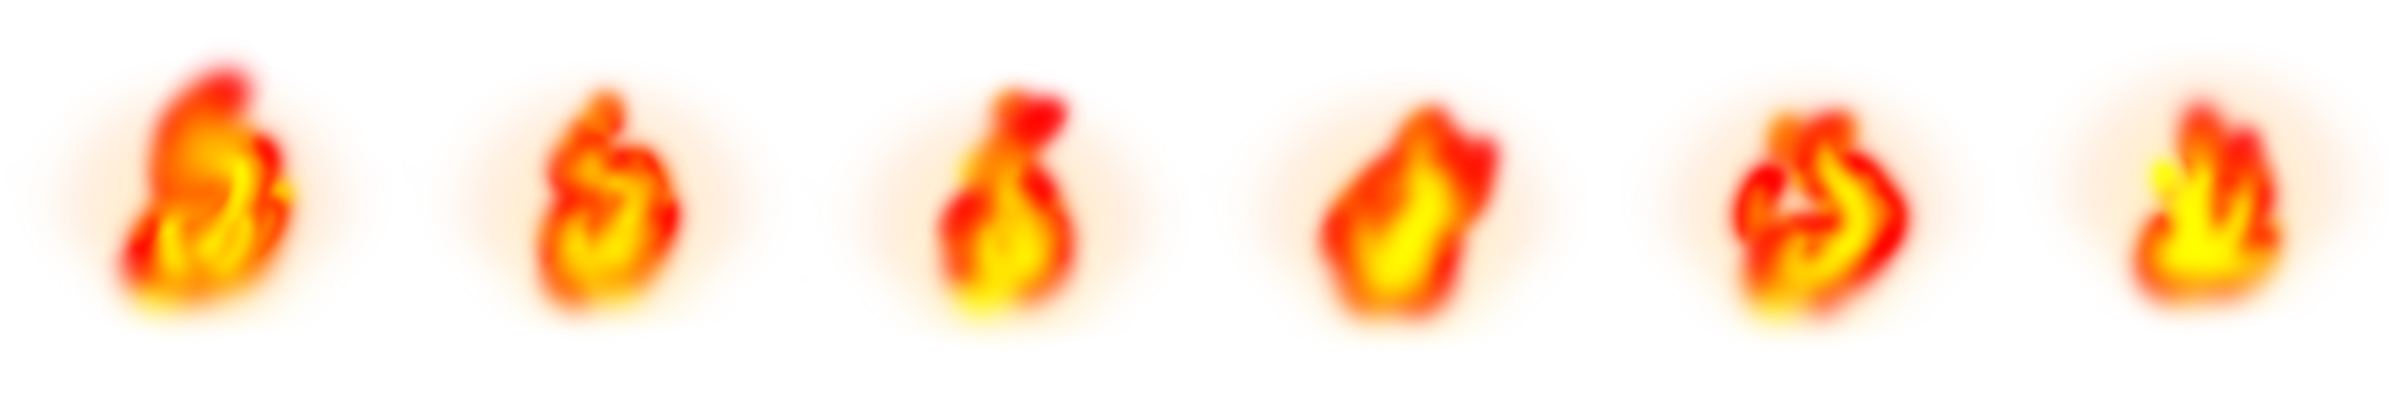
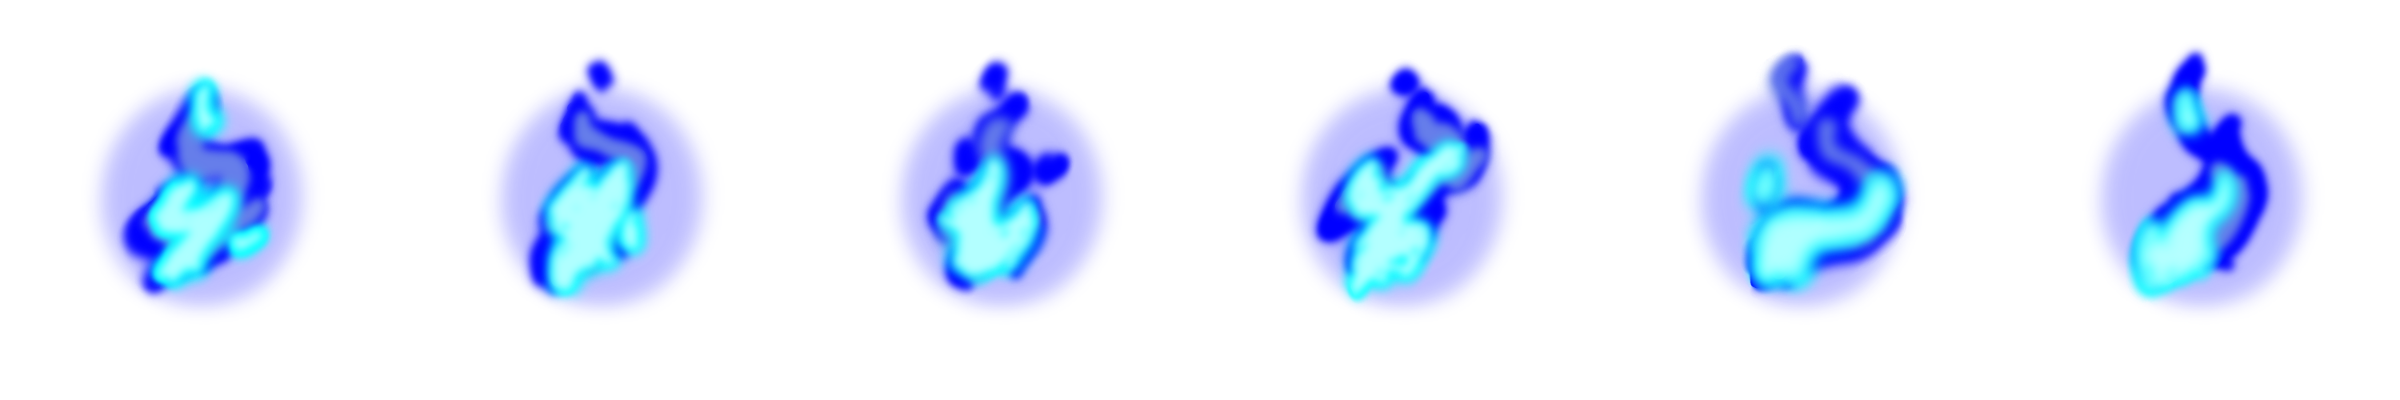
updated art

diff --git a/index.html b/index.html
@@ -387,12 +387,29 @@ const LIGHT_AMBIENT_COLOR = "#170032";
 const LIGHT_GLOW = 0.1;             // how strongly lights tint the scene with their color
 const LIGHT_PLAYER = { radius: 520, color: "#c4b5fd", height: 70 }; // height = px above feet
 const LIGHT_SPELL = { radius: 320, color: "#ff69b4" };
-const LAMP_COLORS = ["#00ffff", "#ff69b4", "#ff6200", "#67FEBD", "#A55AFF"];
-const LAMP_FIRST_X = 350;            // x of the first neon lamp
-const LAMP_SPACING = 650;            // px between lamps
+const LAMP_COLORS = ["#ff6200", "#fecd39", "#ff9a9e", "#ff6200"]; // WARM FIRELIGHT (THE LAMPS ARE NOW TORCHES - SEE TORCH CONFIG)
+const LAMP_FIRST_X = 350;            // x of the first torch
+const LAMP_SPACING = 650;            // px between torches
 const LAMP_COUNT = 15;
-const LAMP_RADIUS = 400;             // light radius of each lamp
-const LAMP_POLE_H = 120;             // px the lamp orb sits above the ground
+const LAMP_RADIUS = 400;             // light radius of each torch
+
+/* ---------- TORCH CONFIG ----------
+   EACH "LAMP" IS NOW A TORCH SPRITE STANDING ON THE GROUND WITH AN ANIMATED FLAME ON TOP.
+     torch.png - ONE 83x310 IMAGE (STAFF WITH A GEM HEAD)
+     flame.png - 6 FRAMES, EACH 400x400, IN A SINGLE ROW
+   EVERYTHING HERE IS SAFE TO TWEAK LIVE (CHANGE, SAVE, RELOAD). */
+const TORCH_SRC = "assets/images/map/torch.png";
+const TORCH_W = 83;                  // SOURCE PX
+const TORCH_H = 310;
+const TORCH_SCALE = 0.6;             // ON-SCREEN SIZE (TORCH IS TORCH_H * TORCH_SCALE PX TALL)
+const FLAME_SRC = "assets/images/map/flame.png";
+const FLAME_FRAME_COUNT = 6;
+const FLAME_FPS = 9;                 // FLAME ANIMATION SPEED
+const FLAME_SCALE = 0.37;            // ON-SCREEN SIZE OF THE 400x400 FLAME FRAME
+const FLAME_BASE_FRAC = 0.78;        // HOW FAR DOWN THE 400px FRAME THE FLAME'S BASE SITS (0 = TOP, 1 = BOTTOM)
+const FLAME_CENTER_FRAC = 0.5;       // HOW FAR DOWN THE FRAME THE FLAME'S BODY CENTERS - THIS IS WHERE THE LIGHT SITS
+const TORCH_FLAME_Y = 42;            // PX (IN TORCH ART) BELOW THE TORCH'S TOP WHERE THE FLAME'S BASE SITS. RAISE TO SINK THE FLAME INTO THE HEAD
+const TORCH_Z = 3;                   // BEHIND THE PLAYER (10), IN FRONT OF THE LEVEL ART (1-2)
 
 /* ---------- LEVEL ART CONFIG ---------- */
 const TILES_SRC = "assets/images/map/tiles.png";      // 6 frames, 60x60px each
@@ -929,6 +946,8 @@ async function loadLevelSprites() {
   await k.loadSprite("tiles", TILES_SRC, { sliceX: TILE_FRAME_COUNT, sliceY: 1 });
   await k.loadSprite("ground", GROUND_SRC);
   await k.loadSprite("column", COLUMN_SRC, { sliceX: COLUMN_FRAME_COUNT, sliceY: 1 });
+  await k.loadSprite("torch", TORCH_SRC);
+  await k.loadSprite("flame", FLAME_SRC, { sliceX: FLAME_FRAME_COUNT, sliceY: 1 });
 }
 
 function makeRng(seed) { // TINY SEEDED PRNG (MULBERRY32) - STABLE "RANDOM" TILE PATTERN BETWEEN RELOADS
@@ -1738,19 +1757,40 @@ function lampFlicker(lamp) {
            + 0.02 * Math.sin(t * 27 + lamp.phase * 5.1);
 }
 
+// TORCH GEOMETRY (WORLD PX), SHARED BY THE DRAW CODE AND THE LIGHTING:
+//   torchTopY  - TOP OF THE TORCH ART (ITS BOTTOM SITS ON THE GROUND)
+//   flameBaseY - WHERE THE FLAME'S BASE LANDS ON THE TORCH HEAD
+//   flameLightY - CENTER OF THE FLAME'S BODY = WHERE THE LIGHT SOURCE IS
+const torchTopY = GROUND_Y - TORCH_H * TORCH_SCALE;
+const flameBaseY = torchTopY + TORCH_FLAME_Y * TORCH_SCALE;
+const flameLightY = flameBaseY - (FLAME_BASE_FRAC - FLAME_CENTER_FRAC) * 400 * FLAME_SCALE;
+
 function drawLamps() {
   const cam = k.getCamPos();
   const half = k.width() / 2 + 100;
-  const orbY = GROUND_Y - LAMP_POLE_H;
+  const t = k.time();
   for (const lamp of LAMPS) {
     if (Math.abs(lamp.x - cam.x) > half) continue; // OFF-SCREEN
+
+    // TORCH: BOTTOM-CENTER ANCHORED ON THE GROUND
+    k.drawSprite({
+      sprite: "torch",
+      pos: k.vec2(lamp.x, GROUND_Y),
+      anchor: "bot",
+      scale: TORCH_SCALE,
+    });
+
+    // FLAME: PER-TORCH TIME OFFSET SO THEY DON'T ALL FLICKER IN LOCKSTEP. ANCHOR IS THE FLAME'S BASE POINT
+    // (kaplay ANCHOR y RUNS -1 TOP .. +1 BOTTOM), SO THE BASE LANDS ON flameBaseY
+    const frame = Math.floor(t * FLAME_FPS + lamp.phase * 2) % FLAME_FRAME_COUNT;
     const f = lampFlicker(lamp);
-    const pos = k.vec2(lamp.x, orbY);
-    k.drawRect({ pos: k.vec2(lamp.x - 3, orbY), width: 6, height: LAMP_POLE_H, color: k.rgb("#37025a") });
-    k.drawCircle({ pos, radius: 34 * f, color: lamp.rgb, opacity: 0.10 });
-    k.drawCircle({ pos, radius: 20 * f, color: lamp.rgb, opacity: 0.22 });
-    k.drawCircle({ pos, radius: 11 * f, color: lamp.rgb, opacity: 0.95 });
-    k.drawCircle({ pos, radius: 5, color: k.rgb("#ffffff"), opacity: 0.9 });
+    k.drawSprite({
+      sprite: "flame",
+      frame,
+      pos: k.vec2(lamp.x, flameBaseY),
+      anchor: k.vec2(0, FLAME_BASE_FRAC * 2 - 1),
+      scale: FLAME_SCALE * (0.97 + 0.06 * (f - 0.9)), // TINY SWELL WITH THE LIGHT FLICKER
+    });
   }
 }
 
@@ -1789,7 +1829,7 @@ function updateLighting() {
   }
 
   // NEAREST ON-SCREEN LAMPS FILL THE REMAINING SLOTS
-  const orbY = GROUND_Y - LAMP_POLE_H;
+  const orbY = flameLightY; // LIGHT SITS AT THE CENTER OF THE FLAME
   const room = MAX_LIGHTS - lights.length;
   const near = LAMPS
     .filter((l) => Math.abs(l.x - cam.x) < W / 2 + LAMP_RADIUS)
@@ -2389,7 +2429,7 @@ spawnPlayer();
 k.add([k.z(PARTICLE_Z), { id: "particleLayer", draw: drawParticles }]);
 k.add([k.z(GHOST_Z), { id: "ghostLayer", draw: drawGhosts }]);
 k.add([k.z(GHOST_Z + 0.5), { id: "clothLayer", draw: drawCloth }]); // verlet cape: behind the body (10), in front of ghosts (9)
-k.add([k.z(3), { id: "lampLayer", draw: drawLamps }]); // BEHIND THE PLAYER (10), IN FRONT OF THE LEVEL ART (1-2)
+k.add([k.z(TORCH_Z), { id: "lampLayer", draw: drawLamps }]); // TORCHES + FLAMES: BEHIND THE PLAYER (10), IN FRONT OF THE LEVEL ART (1-2)
 lightOverlay = k.add([
   k.rect(k.width(), k.height()),
   k.pos(0, 0),
